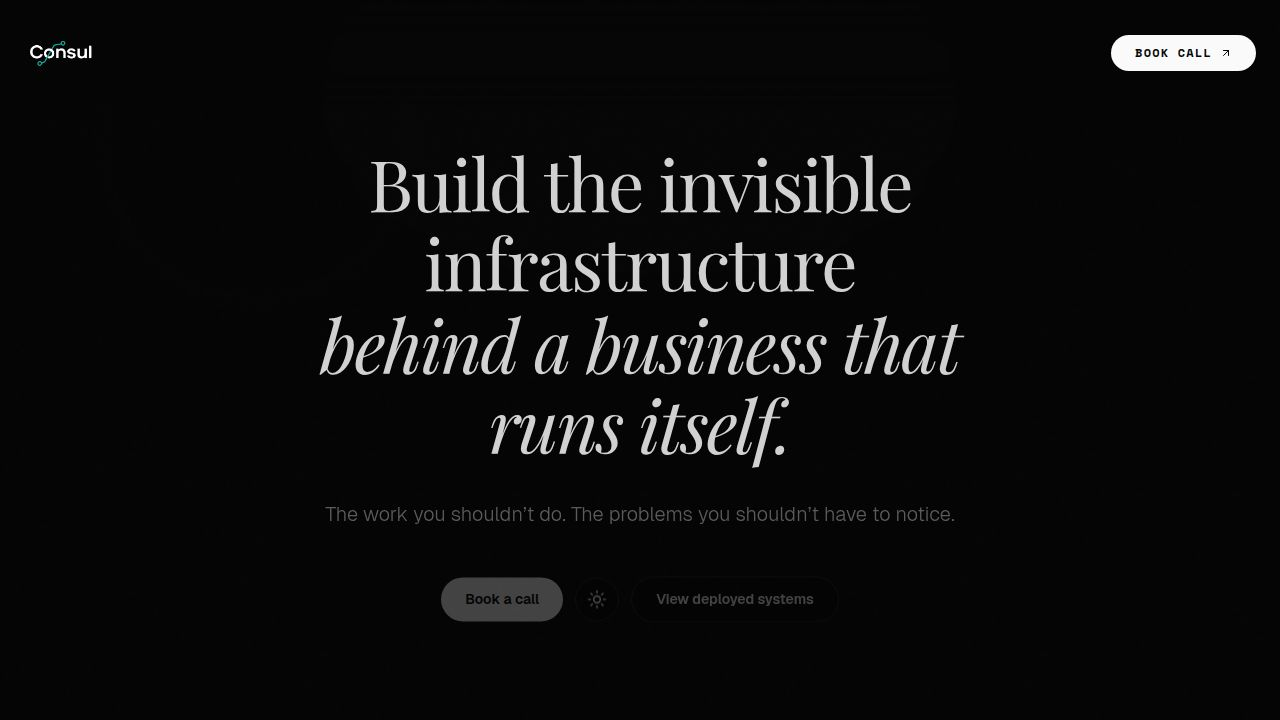
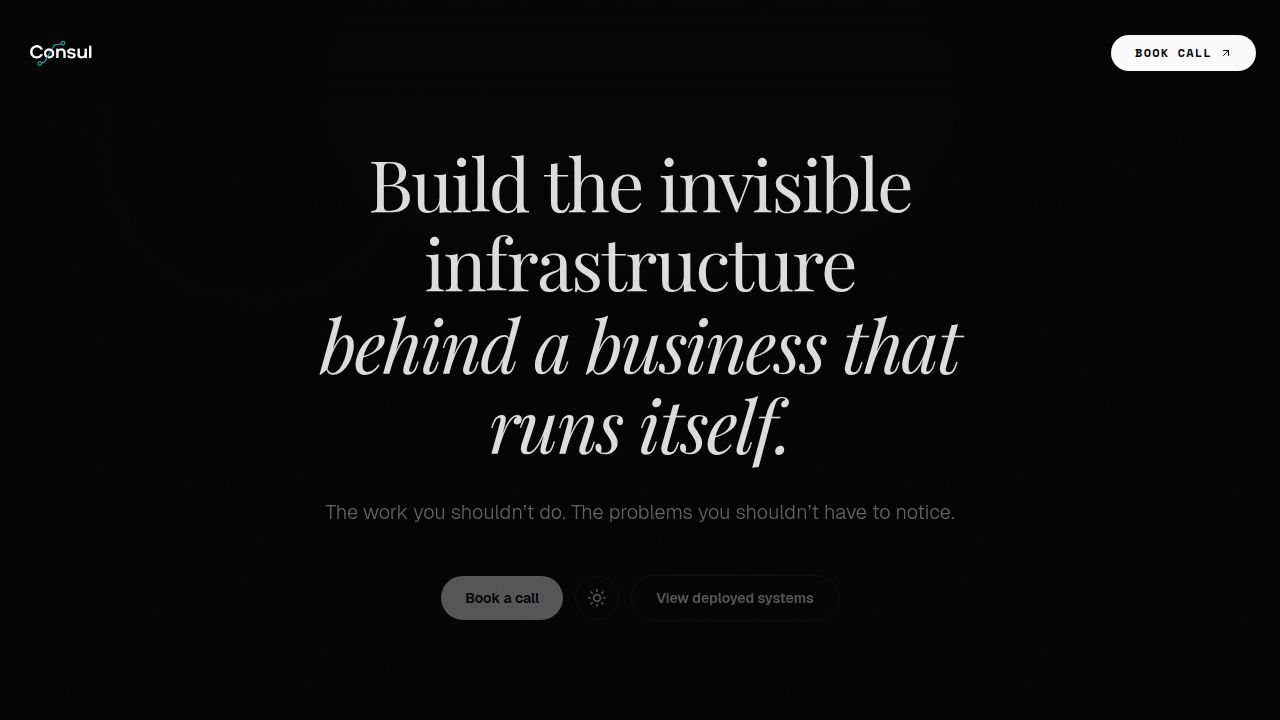
Update system integration metric to reflect zero limitations
Modify the value of the 'System Integration' metric from '0 platform limitation' to '0 limitation' in the hero section component.

Replit-Commit-Author: Agent
Replit-Commit-Session-Id: e9db91fa-452a-4d97-9b6f-7309cc4c8e9c
Replit-Commit-Checkpoint-Type: full_checkpoint
Replit-Commit-Event-Id: 687be5c2-31e4-4fb4-945a-f37467cb68e3
Replit-Commit-Screenshot-Url: https://storage.googleapis.com/screenshot-production-us-central1/68a368c8-cbc7-4db4-b7c0-b7e6da08be15/e9db91fa-452a-4d97-9b6f-7309cc4c8e9c/3vHQUEF
Replit-Helium-Checkpoint-Created: true

Changed region(s): [[0.25, 0.7028, 0.75, 0.7333], [0.3438, 0.7944, 0.4375, 0.8556], [0.5312, 0.825, 0.625, 0.8556]]

diff --git a/client/src/components/sections/hero.tsx b/client/src/components/sections/hero.tsx
@@ -46,7 +46,7 @@ const CHART_DATA = [
 const METRICS = [
   { icon: Settings, value: '∞ workflows', label: 'Operational Scale', subtext: 'Zero bottlenecks', color: 'text-yellow-400' },
   { icon: Clock, value: '18 seconds', label: 'Response Time', subtext: 'Market standard: 4-6hrs', color: 'text-foreground' },
-  { icon: Link, value: '0 platform limitation', label: 'System Integration', subtext: 'Unified interface', color: 'text-emerald-400' },
+  { icon: Link, value: '0 limitation', label: 'System Integration', subtext: 'Unified interface', color: 'text-emerald-400' },
   { icon: Shield, value: '99.97%', label: 'Reliability', subtext: '24/7 monitoring', color: 'text-red-400' }
 ];
 
